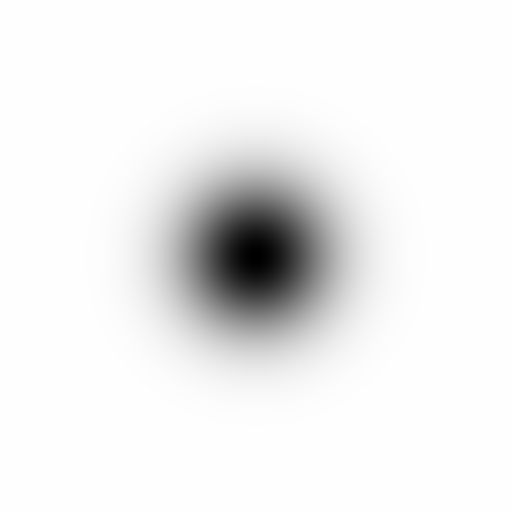
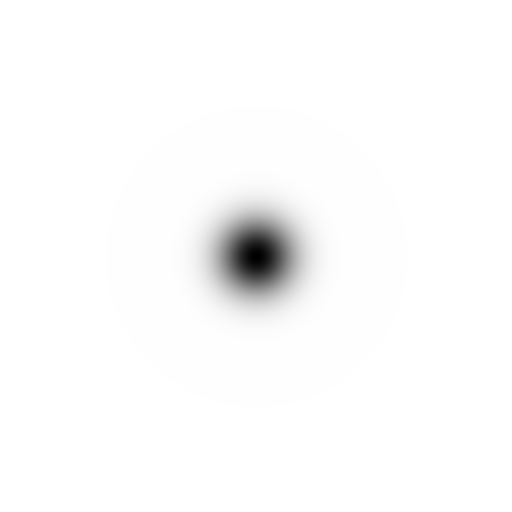
Partial domain randomization

Changed region(s): [[0.2812, 0.2812, 0.7188, 0.7188]]

diff --git a/generate_moon_terrains.py b/generate_moon_terrains.py
@@ -24,10 +24,27 @@ def generate_random_moon_png(crater_size=0.5, crater_depth=0.08, size=512, crate
     img.save("unitree_go2/assets/moon_height.png")
     print(f"Saved moon_height.png, shape={Z.shape}, "
           f"crater_size={crater_size}, crater_depth={crater_depth}")
+    
+def generate_single_moon_png(crater_size=0.5, crater_depth=1, size=512, crater_steepness=3, seed=42):
+    Z = np.zeros((size, size), dtype=np.float32)
+    X, Y = np.ogrid[:size, :size]
 
-# 示例使用：
-# 小而深的坑
-generate_random_moon_png(crater_size=0.5, crater_depth=0.02)
+    cx, cy = size // 2, size // 2
+    r = int(size * crater_size)/crater_steepness
+    crater = np.exp(-((X - cx)**2 + (Y - cy)**2) / (2 * r**2))
+    Z -= crater 
 
-# 大而浅的坑
-# generate_moon_png(crater_size=0.6, crater_depth=0.01)
+    # 归一化到 [0,1]
+    Z -= Z.min()
+    Z /= (Z.max() + 1e-8)
+    Z *= crater_depth
+
+    # 转成灰度图
+    img = Image.fromarray((Z * 255).astype(np.uint8))
+    img.save("unitree_go2/assets/moon_height.png")
+    print(f"Saved moon_height.png, shape={Z.shape}, "
+          f"crater_size={crater_size}, crater_depth={crater_depth}")
+
+
+# generate_random_moon_png(crater_size=0.5, crater_depth=0.02)
+generate_single_moon_png(crater_size=0.5, crater_depth=1, crater_steepness=10)

diff --git a/train/main_train_sb3.py b/train/main_train_sb3.py
@@ -16,6 +16,7 @@ from go2_env import Go2EnvMoonFly
 import wandb  
 import register_envs
 from stable_baselines3.common.monitor import Monitor
+
 parser = argparse.ArgumentParser()
 parser.add_argument('--env_name', type=str, default="Go2FlyingingGround-v0",
                     help='save path')
@@ -27,17 +28,12 @@ parser.add_argument('--resume_iter', type=str, default='max',
                     help='iteration to resume training')
 args = parser.parse_args()
 
-
-
-
 def make_env():
     def _init():
         env = gym.make(args.env_name)
         env = Monitor(env)           # <<< 必须加！
         return env
     return _init
-
-
 
 def main():
     wandb.init(
@@ -46,10 +42,8 @@ def main():
         sync_tensorboard=True,
     )
 
-
     NUM_ENVS = 8# 并行环境数量，可根据 CPU 调整
     vec_env = SubprocVecEnv([make_env() for _ in range(NUM_ENVS)])
-
 
     # ----------------------------
     # 5. Configure PPO model

diff --git a/stand_controller_2.py b/stand_controller_2.py
@@ -53,7 +53,7 @@ def pd_for_joint(model, data, joint_id, target_pos):
     derr = -data.qvel[qvel_idx]
     return kp * err + kd * derr
 
-def stand_still(model_path=os.path.join("unitree_go2", "scene.xml")):
+def stand_still(model_path=os.path.join("unitree_go2", "scene_moon_jet.xml")):
     model = mujoco.MjModel.from_xml_path(model_path)
     data = mujoco.MjData(model)
     
